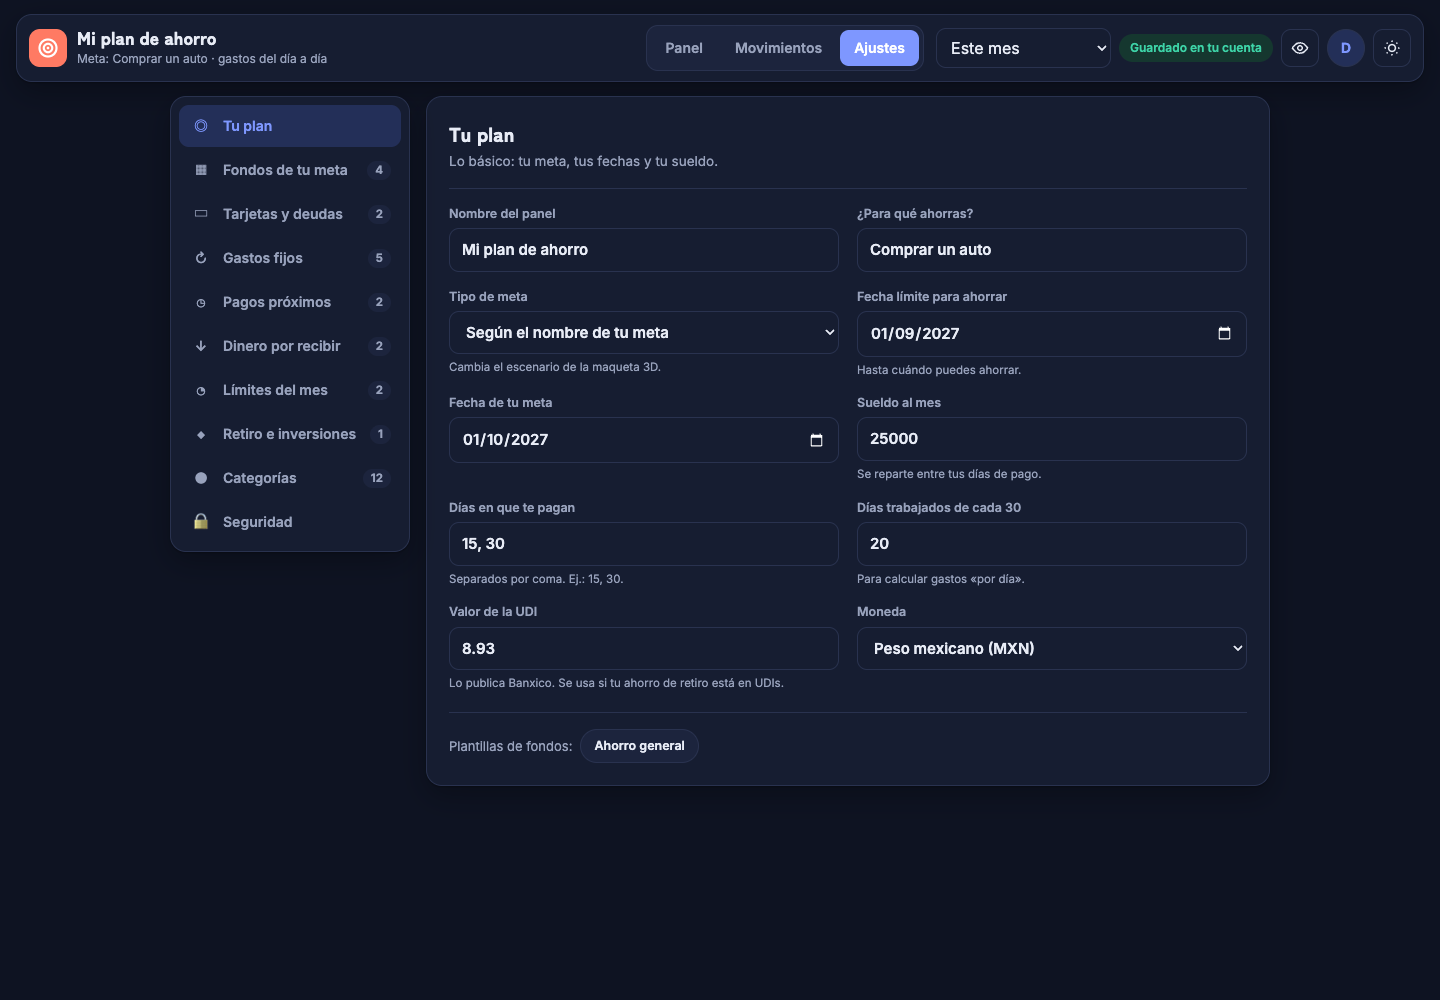
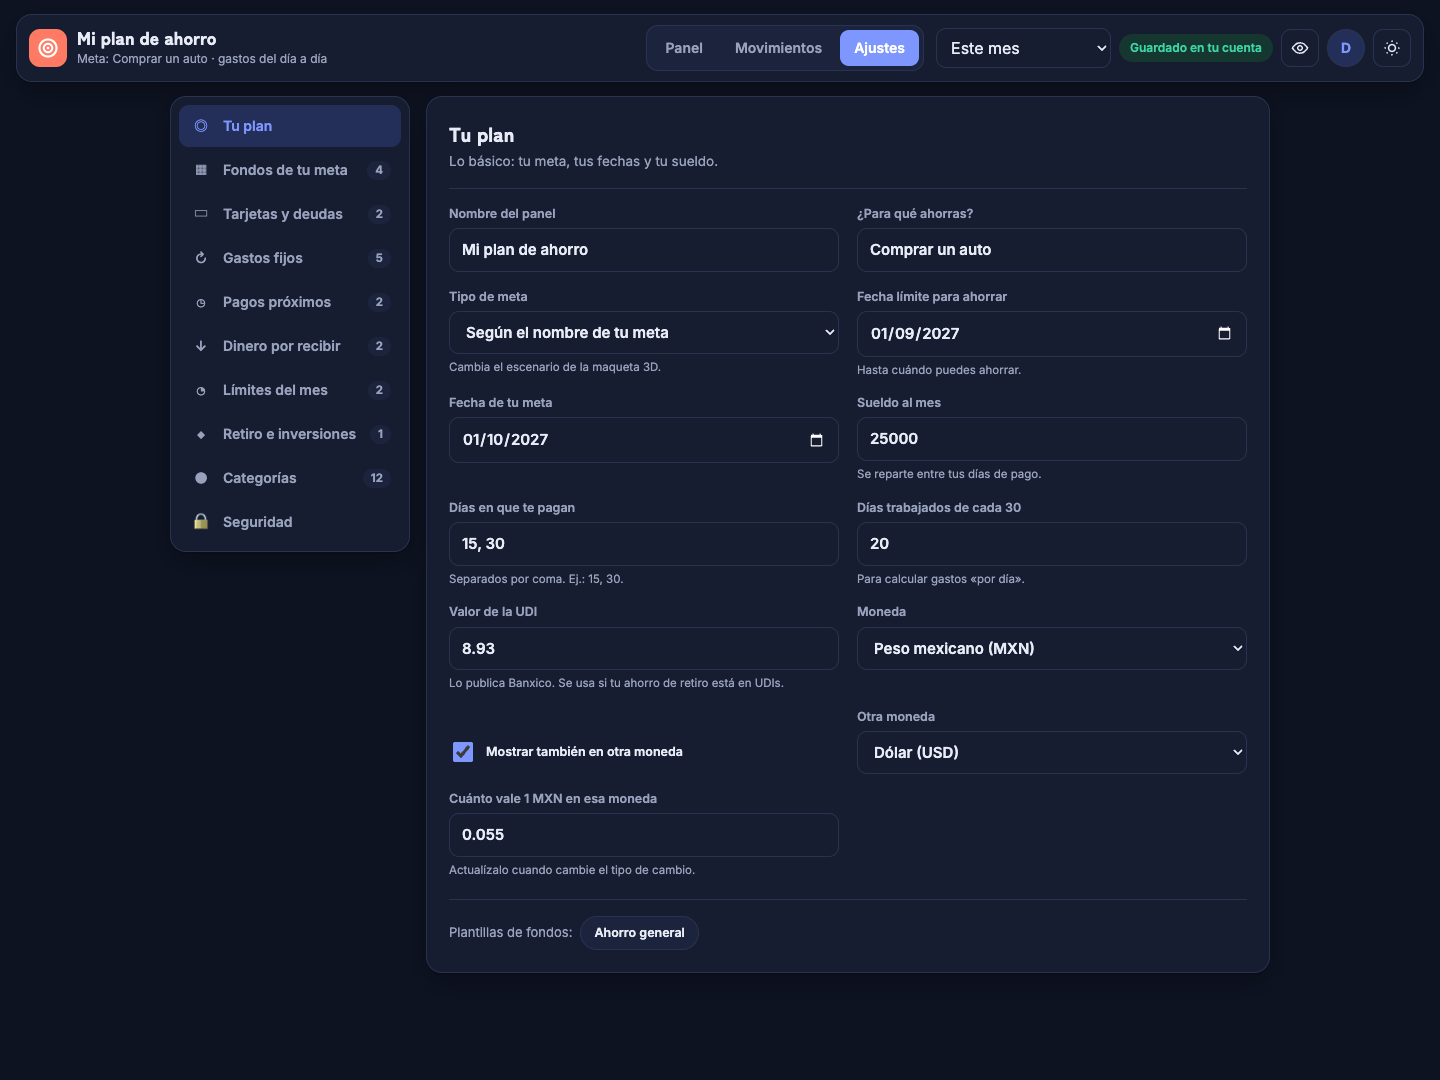
Mostrar montos también en otra moneda
Opción en Ajustes para elegir una segunda moneda y su tipo de cambio.

diff --git a/public/index.html b/public/index.html
@@ -539,8 +539,9 @@ let COL = null;
 const money = v => { if (S && S.hideAmt) return '$ •••'; return money0(v); };
 const money0 = v => { try { return new Intl.NumberFormat('es-MX', { style: 'currency', currency: CFG.currency, maximumFractionDigits: 0 }).format(v); } catch { return '$' + Math.round(v).toLocaleString('es-MX'); } };
 const moneyAxis = v => { if (S.hideAmt) return '•'; const a = Math.abs(v); if (a >= 1e6) return `${(v/1e6).toFixed(1)}M`; if (a >= 1e3) return `${(v/1e3).toFixed(a >= 1e4 ? 0 : 1)}k`; return String(Math.round(v)); };
-const yen = () => '';
-const yenSep = () => '';
+const ALT_CURS = { JPY: 'Yen (JPY)', USD: 'Dólar (USD)', EUR: 'Euro (EUR)', GBP: 'Libra (GBP)', CAD: 'Dólar canadiense (CAD)', AUD: 'Dólar australiano (AUD)', KRW: 'Won (KRW)', CNY: 'Yuan (CNY)', BRL: 'Real (BRL)', COP: 'Peso colombiano (COP)', ARS: 'Peso argentino (ARS)', CLP: 'Peso chileno (CLP)', MXN: 'Peso mexicano (MXN)' };
+const altAmt = v => { if (!CFG.showAlt || S.hideAmt || !CFG.altCur || !(+CFG.rate > 0)) return ''; try { return new Intl.NumberFormat('es-MX', { style: 'currency', currency: CFG.altCur, maximumFractionDigits: 0 }).format(v * +CFG.rate); } catch { return ''; } };
+const altSep = v => { const a = altAmt(v); return a ? ' · ' + a : ''; };
 const pctTxt = v => `${(v * 100).toFixed(v < 0.1 && v > 0 ? 1 : 0)} %`;
 
 /* ---------- ejemplo (en pesos) ---------- */
@@ -646,7 +647,7 @@ function projection(sim) {
 
 /* lotes de la maqueta */
 function goalLots() {
-  return CFG.funds.map(f => { const s = fundSaved(f.id), fr = f.t ? s / f.t : 0; return { id: f.id, kind: 'tower', n: f.n, c: f.c, f: fr, val: `${Math.round(Math.min(fr, 1) * 100)} %`, tip: `${f.n}\n${money(s)} de ${money(f.t)}${f.h ? `\n${f.h}` : ''}` }; });
+  return CFG.funds.map(f => { const s = fundSaved(f.id), fr = f.t ? s / f.t : 0; return { id: f.id, kind: 'tower', n: f.n, c: f.c, f: fr, val: `${Math.round(Math.min(fr, 1) * 100)} %`, tip: `${f.n}\n${money(s)} de ${money(f.t)}${altSep(f.t)}${f.h ? `\n${f.h}` : ''}` }; });
 }
 function moneyLots() {
   const L = [];
@@ -1285,7 +1286,7 @@ function leftHtml(M, noHead) {
   const st = { good: ['A tiempo', 'pos'], warn: ['Justo', 'flat'], bad: ['Atrasado', 'neg'], done: ['Meta cumplida', 'pos'], none: ['Sin ritmo aún', 'flat'] }[M.status];
   const etaTxt = M.eta ? ymLabel(M.eta.slice(0, 7), true) : '—';
   return `${noHead ? '' : `<div class="card-h"><h2>Resumen de tu meta</h2><span class="chip">${esc(periodLabel())}</span></div>`}
-  ${kpi('$', 'var(--ai-soft)', 'var(--ai)', `Ahorrado para ${esc(GN())}`, `Meta ${money(M.g)}`, money(M.saved), `<span class="dl pos">${pctTxt(M.g ? M.saved / M.g : 0)} de la meta</span>`)}
+  ${kpi('$', 'var(--ai-soft)', 'var(--ai)', `Ahorrado para ${esc(GN())}`, `Meta ${money(M.g)}${altSep(M.g)}`, money(M.saved), `<span class="dl pos">${pctTxt(M.g ? M.saved / M.g : 0)} de la meta</span>`)}
   ${kpi('+', 'var(--good-soft)', 'var(--good)', 'Ahorro del período', 'Contra el período anterior', money(M.savP), delta(M.savP, M.savPrev, 'up'))}
   ${kpi('−', 'var(--shu-soft)', 'var(--shu)', 'Gastos del período', 'Todo lo que salió', money(M.gasP), delta(M.gasP, M.gasPrev, 'down'))}
   ${kpi('→', 'var(--warn-soft)', 'var(--warn)', 'Ahorro necesario', `Por mes · tu promedio ${money(M.avg)}`, money(M.need), `<span class="dl ${M.avg >= M.need ? 'pos' : 'neg'}">${M.avg >= M.need ? 'vas bien' : 'te falta ritmo'}</span>`)}
@@ -1302,7 +1303,7 @@ function heroHtml(M) {
     chips = moneyLots().map(L => `<button class="fund${S.fund === L.id ? ' is-on' : ''}" data-fund="${esc(L.id)}"><span class="fund-n"><span class="dot" style="background:${L.c}"></span><span>${esc(L.n)}</span></span><span class="fund-v"><b style="color:${L.vc || 'var(--fg)'}">${esc(L.val)}</b></span>${L.kind === 'debt' ? `<span class="bar"><i style="width:${((1 - L.f) * 100).toFixed(1)}%;background:var(--good)"></i></span>` : ''}</button>`).join('');
   } else {
     top = `<div><div class="eyebrow">${esc(GN())}</div><div class="big num">${M.daysLeft} días</div><div class="hero-sub">Fecha meta: ${dateLong(CFG.tripDate)}</div></div>
-      <div style="text-align:right"><div class="eyebrow">Construido</div><div class="big num">${pctTxt(Math.min(p, 1))}</div><div class="hero-sub">Faltan ${money(M.remaining)}</div></div>`;
+      <div style="text-align:right"><div class="eyebrow">Construido</div><div class="big num">${pctTxt(Math.min(p, 1))}</div><div class="hero-sub">Faltan ${money(M.remaining)}${altSep(M.remaining)}</div></div>`;
     chips = CFG.funds.map(f => { const s = fundSaved(f.id); const fr = f.t ? Math.min(1, s / f.t) : 0; return `<button class="fund${S.fund === f.id ? ' is-on' : ''}" data-fund="${esc(f.id)}"><span class="fund-n"><span class="dot" style="background:${f.c}"></span><span>${esc(f.n)}</span></span><span class="fund-v"><b>${money(s)}</b><span>${Math.round(fr * 100)} %</span></span><span class="bar"><i style="width:${(fr * 100).toFixed(1)}%;background:${f.c}"></i></span></button>`; }).join('');
   }
   return `<div class="hero-top">${top}</div>${Dio.ok ? '<div id="dioSlot"></div>' : routeSvg(p)}<div class="funds">${chips}</div>`;
@@ -1427,7 +1428,7 @@ function kpiStrip(M, P) {
   const t = (l, v, s, c) => `<div class="kt"><small>${l}</small><b class="num" style="${c ? `color:${c}` : ''}">${v}</b><span>${s}</span></div>`;
   return `<div class="kstrip">
     ${t('Patrimonio neto', money(net), 'ahorro + retiro + por recibir − deudas', net < 0 ? 'var(--bad)' : '')}
-    ${t('Ahorrado hoy', money(M.saved), '')}
+    ${t('Ahorrado hoy', money(M.saved), altAmt(M.saved))}
     ${t('Deudas', money(debt), debt ? `≈ ${money(CFG.debts.reduce((s, d) => s + debtLeft(d) * (+d.r || 60) / 1200, 0))}/mes de intereses` : 'sin deudas', debt ? 'var(--bad)' : 'var(--good)')}
     ${ltList().length ? t('Para tu retiro', money(ltTotal()), 'largo plazo, no se usa', 'var(--good)') : t('Por recibir', money(inc), 'sin contar lo que te deben', 'var(--good)')}
     ${t('Te sobra al mes', money(libre), 'sueldo − fijos − variable')}
@@ -1761,6 +1762,8 @@ function planSection() {
       ${f('cDays', 'Días trabajados de cada 30', inp('cDays', 'workDays', 'number', +d.workDays || 20, ' min="0" max="30" step="1"'), 'Para calcular gastos «por día».')}
       ${f('cUdi', 'Valor de la UDI', inp('cUdi', 'udi', 'number', +d.udi || 8.93, ' min="0" step="any"'), 'Lo publica Banxico. Se usa si tu ahorro de retiro está en UDIs.')}
       ${f('cCur', 'Moneda', `<select id="cCur" data-pf="currency">${Object.entries(CURRENCIES).map(([k, n]) => `<option value="${k}"${k === d.currency ? ' selected' : ''}>${n}</option>`).join('')}</select>`)}
+      <label class="ff tgl" for="cAlt"><input id="cAlt" data-pf="showAlt" type="checkbox"${d.showAlt ? ' checked' : ''}><span>Mostrar también en otra moneda</span></label>
+      ${d.showAlt ? f('cAltCur', 'Otra moneda', `<select id="cAltCur" data-pf="altCur">${Object.entries(ALT_CURS).map(([k, n]) => `<option value="${k}"${k === (d.altCur || 'USD') ? ' selected' : ''}>${n}</option>`).join('')}</select>`) + f('cRate', `Cuánto vale 1 ${esc(d.currency)} en esa moneda`, inp('cRate', 'rate', 'number', +d.rate || 0, ' min="0" step="any"'), 'Actualízalo cuando cambie el tipo de cambio.') : ''}
     </div>
     <div class="tpl"><span>Plantillas de fondos:</span><button type="button" data-act="tpl" data-id="general">Ahorro general</button></div></section>`;
 }
@@ -1986,7 +1989,7 @@ document.addEventListener('click', e => {
 document.addEventListener('input', e => { const el = e.target;
   if (el.id === 'simVar') { S.sim.varEst = +el.value; const y = window.scrollY; renderPanel(); window.scrollTo(0, y); const r = $('#simVar'); if (r) r.focus(); return; }
   if (el.dataset && el.dataset.li && cfgDraft) { const r = cfgDraft[el.dataset.li][+el.dataset.i]; r[el.dataset.k] = el.type === 'number' ? (el.value === '' ? '' : +el.value) : el.value; if (el.type === 'color' && el.nextElementSibling) el.nextElementSibling.textContent = el.value; markDirty(); return; }
-  if (el.dataset && el.dataset.pf && cfgDraft) { const k = el.dataset.pf; cfgDraft[k] = el.type === 'checkbox' ? el.checked : el.type === 'number' ? +el.value : el.value; markDirty(); if (k === 'showAlt') drawCfg(); return; }
+  if (el.dataset && el.dataset.pf && cfgDraft) { const k = el.dataset.pf; cfgDraft[k] = el.type === 'checkbox' ? el.checked : el.type === 'number' ? +el.value : el.value; markDirty(); if (k === 'showAlt') { if (cfgDraft.showAlt && !cfgDraft.altCur) cfgDraft.altCur = 'USD'; drawCfg(); } return; }
   if (el.dataset && el.dataset.fi != null && cfgDraft) { cfgDraft.funds[+el.dataset.fi][el.dataset.k] = el.dataset.k === 't' ? +el.value : el.value; } });
 document.addEventListener('change', e => { const el = e.target; if (el.id === 'lockMin') { CFG.lockMin = +el.value; if (cfgDraft) cfgDraft.lockMin = CFG.lockMin; writeDoc('config', CFG).then(() => toast('Bloqueo automático guardado')).catch(() => {}); armIdle(); return; } if (el.dataset && el.dataset.simf) { S.sim.friend = el.checked; const y = window.scrollY; renderPanel(); window.scrollTo(0, y); return; } if (el.dataset && el.dataset.sim) { S.sim.skip[el.dataset.sim] = !el.checked; const y = window.scrollY; renderPanel(); window.scrollTo(0, y); const d = $('.sim'); if (d) d.open = true; } });
 document.addEventListener('submit', e => {

diff --git a/README.md b/README.md
@@ -21,6 +21,7 @@ Es una sola página HTML. Entras con tu cuenta de Google y tus datos se guardan 
 - **Retiro e inversiones** a largo plazo, en pesos o en UDIs.
 - **Consejos con tus números**, por ejemplo "págate primero", qué hacer con el aguinaldo o cuánto ganas si recortas un gasto.
 - **Movimientos.** Registro rápido de gastos, ahorros, pagos de deuda e ingresos. Tiene atajos para tus gastos fijos, filtros y opciones para editar y borrar.
+- **Otra moneda.** Muestra tus montos también en otra moneda con el tipo de cambio que tú pongas.
 - **Privacidad.** Botón para ocultar montos y bloqueo opcional con PIN.
 - **Respaldo.** Descarga e importa tus datos en JSON.
 - Tema claro y oscuro, funciona en el celular y sin conexión (se sincroniza al volver).
